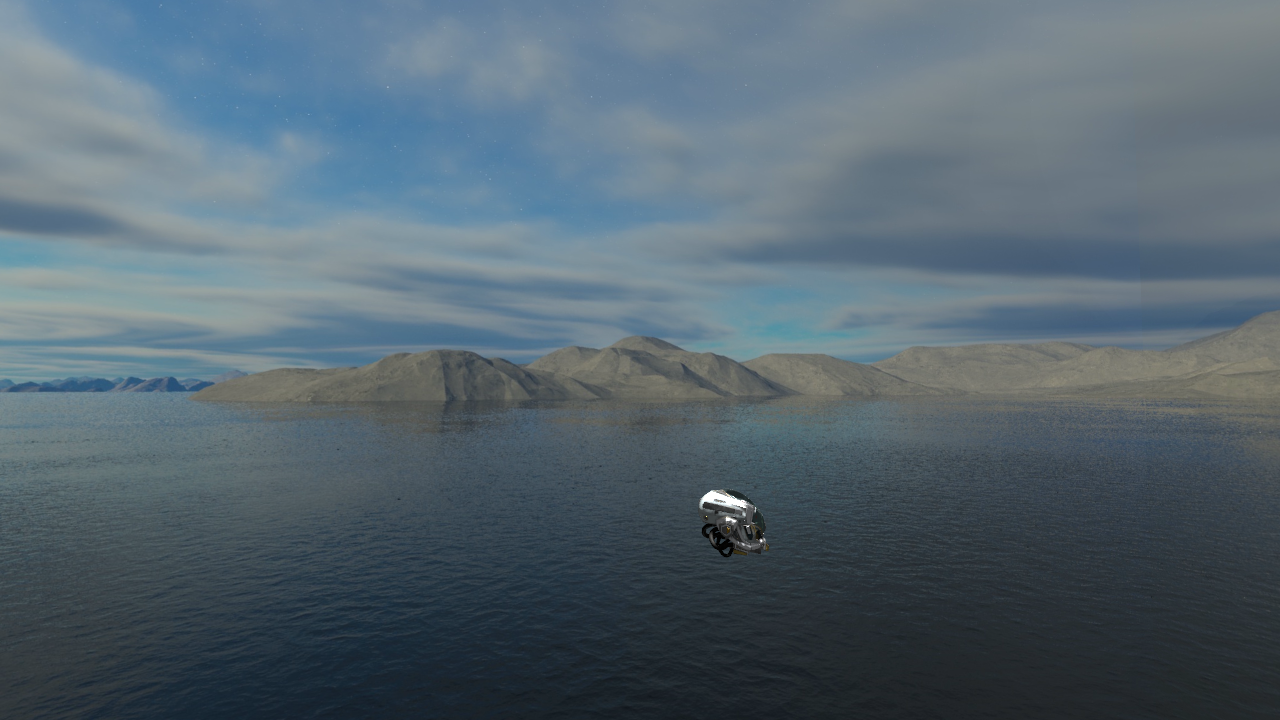
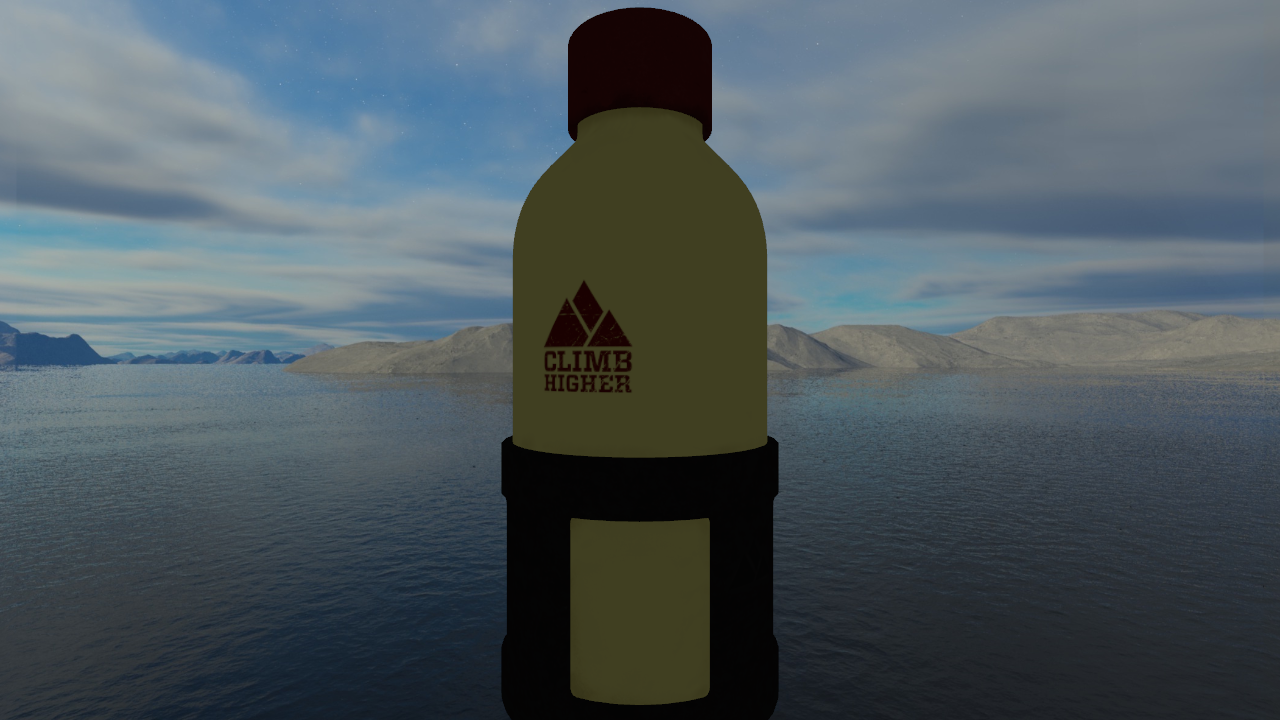
Fixed water bottle test. Now, bistro

diff --git a/examples/src/scene_viewer/mod.rs b/examples/src/scene_viewer/mod.rs
@@ -712,11 +712,16 @@ pub fn main() {
 
 #[cfg(test)]
 #[rend3_test::test_attr]
+/// Simple test scene to see if we can render anything to spec.
 async fn default_scene() {
+    use std::f32::consts::PI;
     let mut app = SceneViewer::default();
     app.file_to_load = Some("src/scene_viewer/resources/WaterBottle.glb".into());
     app.wait_for_load = true;
     app.samples = SampleCount::Four;
+    app.camera_location = Vec3A::new(-0.25, 0.0, 0.0);
+    app.camera_pitch = 0.0;
+    app.camera_yaw = PI*1.5;
 
     crate::tests::test_app(crate::tests::TestConfiguration {
         app,
